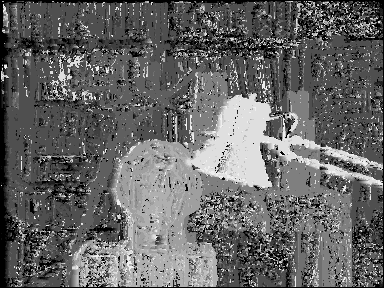
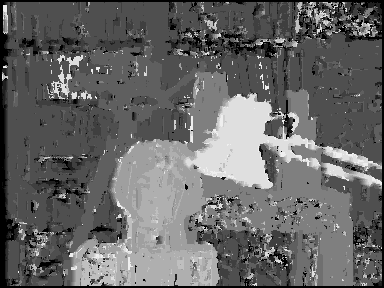
Change Kernel Size

diff --git a/Week3/4. Stereo matching/2. stereo_matching_SM2.py b/Week3/4. Stereo matching/2. stereo_matching_SM2.py
@@ -49,5 +49,5 @@ def stereo_matching_sdd(left_img, right_img, kernel_size, disparity_range):
 
 if __name__ == '__main__':
     disparity_range = 16  # Cho cap anh tsukuba
-    kernel_size = 3
+    kernel_size = 5
     stereo_matching_sdd("left.png", "right.png", kernel_size, disparity_range)
